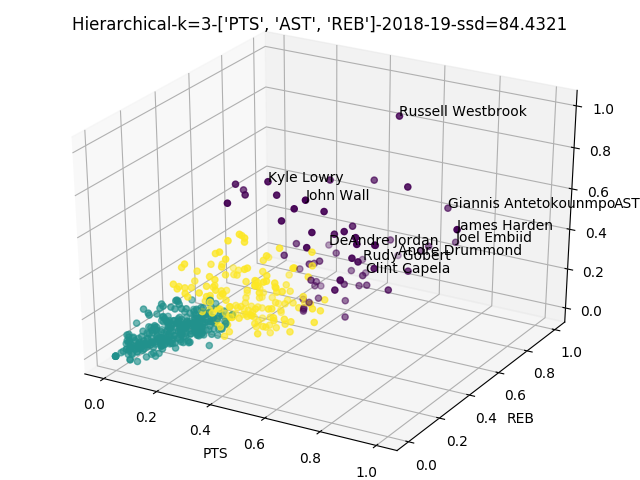
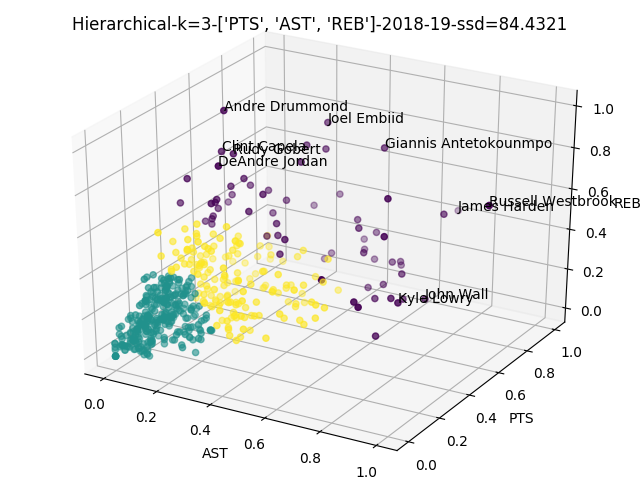
more data and updates to code

diff --git a/clustering/Cluster.py b/clustering/Cluster.py
@@ -42,13 +42,17 @@ class NBACluster():
         # return labels from engine.
         return self.labels
     def text_display_cluster(self):
+        '''
+        displays all of the groups that every player is in after `fit()` is run, as well
+        their corresponding centroid.
+        '''
         for i,p in enumerate(self.x):
             name_obj = players.find_player_by_id(self.names[i])
             if name_obj != None:
                 name = name_obj['full_name']
-                print(f'{name}: Group {self.labels[i]}')
+                print(f'{name}: Group {self.labels[i]} with centroid {self.centroids[self.labels[i]]}')
 
-    def plot(self, disp_names=False, thresh=0.8, single_name=''):
+    def plot(self, disp_names=False, thresh=0.8, single_name='', interactive=False):
         '''
         plots the cluster points.
 
@@ -56,11 +60,20 @@ class NBACluster():
 
         `thresh`: `float`, between `0` and `1`: given each dimensions max value, take `thresh * 100%` of that to show names.
 
+        `single_name`: `str`: If the user wants to see where a specific player is classified, they can do so here.
+
+        `interactive`: `bool`: If the user wants to be able to interact with the plot after each clustering `fit` is run.
+        
         '''
+        self.priority_name_index = -1
         player = players.find_players_by_full_name(single_name)
         if len(player) == 1:
             # there is a valid player with the name
             self.p_id = player[0]['id']
+            index = np.where(np.array(self.names)==self.p_id)
+            if len(index) == 1:
+                # player does in fact exist
+                self.priority_name_index = index[0][0]
 
         self.color_labels = [f'Group {i+1}' for i in range(self.num_clusters)]
         groups = [[] for i in range(self.num_clusters)]
@@ -90,6 +103,12 @@ class NBACluster():
                         if name_obj != None:
                             name = name_obj['full_name']
                             ax.text(p[0],p[1], name)
+            for i,p in enumerate(self.x):
+                if i==self.priority_name_index:
+                    name_obj = players.find_player_by_id(self.names[i])
+                    if name_obj != None:
+                        name = name_obj['full_name']
+                        ax.text(p[0],p[1], name)
         elif len(self.dim_vals) == 3:
             fig = plt.figure()
             ax = Axes3D(fig)
@@ -100,6 +119,7 @@ class NBACluster():
             dim1_thresh = np.max(self.x[::,0]) * thresh
             dim2_thresh = np.max(self.x[::,1]) * thresh
             dim3_thresh = np.max(self.x[::,2]) * thresh
+
             if disp_names:
                 for i,p in enumerate(self.x):
                     if p[0] > dim1_thresh or p[1] > dim2_thresh or p[2] > dim3_thresh:
@@ -107,10 +127,18 @@ class NBACluster():
                         if name_obj != None:
                             name = name_obj['full_name']
                             ax.text(p[0],p[1],p[2], name)
+
+            for i,p in enumerate(self.x):
+                if i==self.priority_name_index:
+                    name_obj = players.find_player_by_id(self.names[i])
+                    if name_obj != None:
+                        name = name_obj['full_name']
+                        ax.text(p[0],p[1],p[2], name)
         is_dr = '' if not self.reduced else '-with-PCA'
         rounded_ssd = np.round(self.ssd, 4)
         title = f'{self.method}-k={self.num_clusters}-{self.cols}-{self.year}{is_dr}'
         plt.title(f'{title}-ssd={rounded_ssd}')
         plt.savefig(f'img/{title}')
+        if interactive:
+            plt.show()
         plt.close()
-        # plt.show()

diff --git a/main.py b/main.py
@@ -51,10 +51,10 @@ if __name__ == '__main__':
     # here are the clustering methods
     # if the user decides to do less than 3 clusters for whatever reason
     num_clusters = max(opt.num_clusters,3)
-    year = '2018-19'
-    cols = ['PTS', 'MIN', 'PLUS_MINUS']
+    year = '2019-20'
+    cols = ['PTS', 'AST', 'REB']
     normalize = True
-    plot_names = True
+    plot_names = False
     km_elbows = []
     km_simple_random_elbows = []
     km_simple_extreme_elbows = []
@@ -69,8 +69,9 @@ if __name__ == '__main__':
 
         nba.fit('k-means++', 300, 0.0001)
         km_elbows.append(nba.ssd)
-        nba.plot(plot_names)
-        
+        nba.text_display_cluster()
+
+        nba.plot(single_name='LeBron James', disp_names=plot_names)
         # ## k means simple
         
         nba1 = nba_kmeans.NBAKMeansSimple(k)
@@ -79,7 +80,7 @@ if __name__ == '__main__':
         # true for random initialization.
         nba1.fit(True, 0.0001)
         km_simple_random_elbows.append(nba1.ssd)
-        nba1.plot(plot_names)
+        nba1.plot(single_name='LeBron James', disp_names=plot_names)
 
         nba2 = nba_kmeans.NBAKMeansSimple(k)
         nba2.init_data_from_df(year, cols, normalize=normalize)
@@ -89,7 +90,7 @@ if __name__ == '__main__':
         km_simple_extreme_elbows.append(nba2.ssd)
 
 
-        nba2.plot(plot_names)
+        nba2.plot(single_name='LeBron James', disp_names=plot_names)
         
         # # ## gaussian mixture model
 
@@ -101,7 +102,7 @@ if __name__ == '__main__':
         nba3.fit()
         gmm_elbows.append(nba3.ssd)
         # # # print(nba.get_labels())
-        nba3.plot(plot_names)
+        nba3.plot(single_name='LeBron James', disp_names=plot_names)
         
 
         # ## hierarchical
@@ -110,7 +111,7 @@ if __name__ == '__main__':
         nba4.init_data_from_df(year, cols, normalize=normalize)
         nba4.fit('euclidean')
         hierarchical_elbows.append(nba4.ssd)
-        nba4.plot(plot_names)
+        nba4.plot(single_name='LeBron James', disp_names=plot_names)
     all_elbows = [km_elbows, km_simple_random_elbows, km_simple_extreme_elbows, gmm_elbows, hierarchical_elbows]
     elbow_strings = ['KM', 'KM-Simple-Random', 'KM-Simple-Extreme', 'GMM', 'Hierarchical']
     for i in range(len(all_elbows)):

diff --git a/clustering/KMeans.py b/clustering/KMeans.py
@@ -11,7 +11,7 @@ class NBAKMeans(NBACluster):
         # fit the data
         cluster = self.engine.fit(self.x)
         self.labels = cluster.labels_
-        self.cluster_centers_ = cluster.cluster_centers_
+        self.centroids = cluster.cluster_centers_
         print(f'KMeans ran for {cluster.n_iter_} iterations with ssd {cluster.inertia_}')
         self.ssd = cluster.inertia_
 

diff --git a/clustering/Hierarchical.py b/clustering/Hierarchical.py
@@ -26,7 +26,7 @@ class NBAHierarchical(NBACluster):
         for v in range(len(self.x)):
             dist += self.dist(self.x[v], centroids[labels_np[v]])
         self.ssd = dist
-
+        self.centroids = np.array(centroids)
         self.children = cluster.children_
     
     def dist(self, x1, x2):

diff --git a/clustering/GMM.py b/clustering/GMM.py
@@ -19,6 +19,7 @@ class NBAGMM(NBACluster):
             l.append(selection)
         self.ssd = dist
         self.labels = l
+        self.centroids = res[0]
 
     def get_points(self, k):
         a = self.df.values
